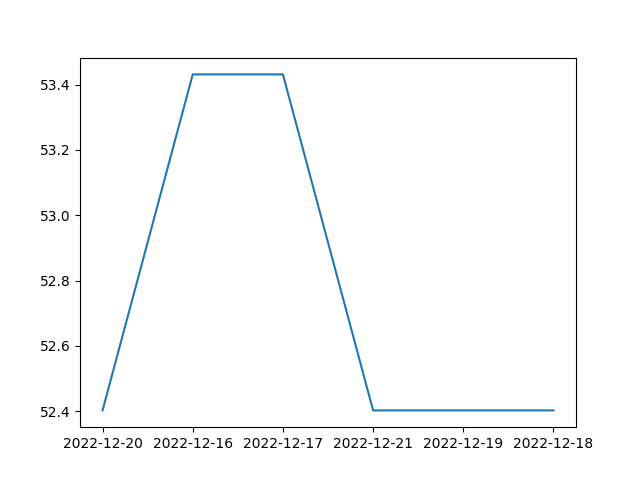
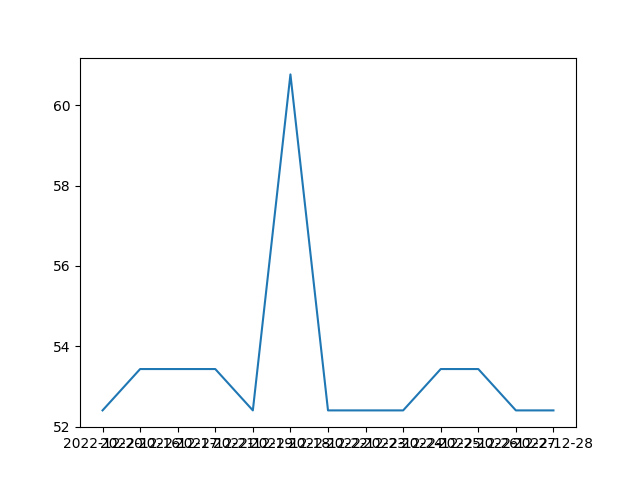
Sorted weather dataframe by time

diff --git a/src/huggingface-app/app.py b/src/huggingface-app/app.py
@@ -5,9 +5,65 @@ import requests
 import matplotlib.pyplot as plt
 import hopsworks
 import joblib
+import pandas as pd
+
+'''
+I want to compare the graphs of weather and snow
+to compare them and see which feature of weathers
+actually follows the trend of snow. That feature
+may be the most important to make our prediction.
+'''
 
 
-def get_prediction():
+def get_weather():
+    '''
+    Get weather data from feature group
+    '''
+    
+    weather_fg = fs.get_feature_group(name="weather_data")
+    weather = weather_fg.read()
+    # checking datatype
+    print("Type weather: ", type(weather.time[0]))
+    # sort the dataframe by date
+    weather['time'] = pd.to_datetime(weather['time'])
+    # verify datatype
+    print("Type weather: ", type(weather.time[0]))
+    weather.sort_values(by='time', ascending=True, inplace=True)
+    print(weather)
+    
+    return weather
+    
+def plot_weather(weather):
+    '''
+    Plot weather forecast and history.
+    '''
+    time = weather['time'] # used for x-axis
+    for feature in weather.keys():
+        if feature == 'time' or feature == 'weathercode':
+            pass
+        else:
+          print("Feature: ", feature)
+          print(weather[feature])
+          #plt.plot(time, weather[feature], legend=feature)
+        
+    #plt.legend()
+    #plt.show()
+    return
+
+def get_actual_snow():
+    '''
+    Get from Hopsworks the actual snow level day by day
+    since the beginning of the collection.
+    '''
+    project = hopsworks.login()
+    fs = project.get_feature_store()
+    
+    snow_data_fg = fs.get_feature_group(name="snow_data")
+    snow_data = snow_data_fg.read()
+    
+    return snow_data
+
+def get_snow_prediction():
     '''
     Get the latest prediction from Hopsworks.
     Returns the prediction.
@@ -51,6 +107,16 @@ def get_image_snow_depth(snow_depth):
     '''
     return image
     
+
+if __name__ == '__main__':
+    project = hopsworks.login(project="finetune")
+    fs = project.get_feature_store()
+    
+    weather = get_weather()
+    plot_weather(weather)
+
+# Uncomment for gradio interface locally on the browser
+'''  
 with gr.Blocks() as demo:
   with gr.Row():
     pred = get_prediction()
@@ -65,6 +131,9 @@ with gr.Blocks() as demo:
     btn = gr.Button("New prediction").style(full_width=True)
 
 demo.launch()
+'''
+
+# Previous demo interface
 '''      
 demo = gr.Interface(
     fn=passenger,
